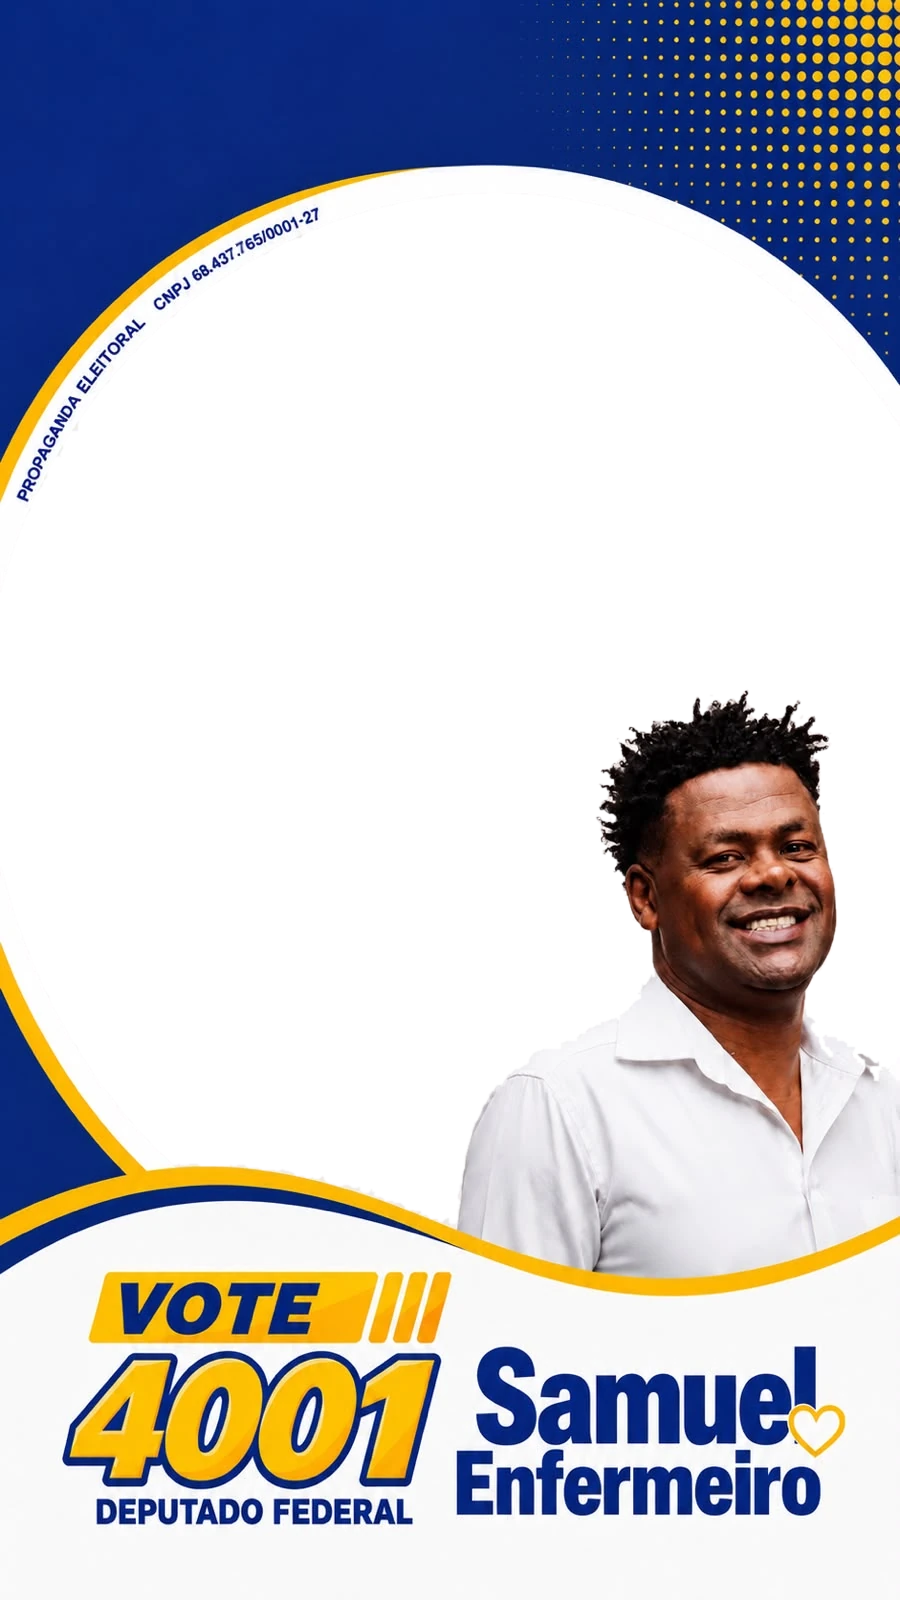
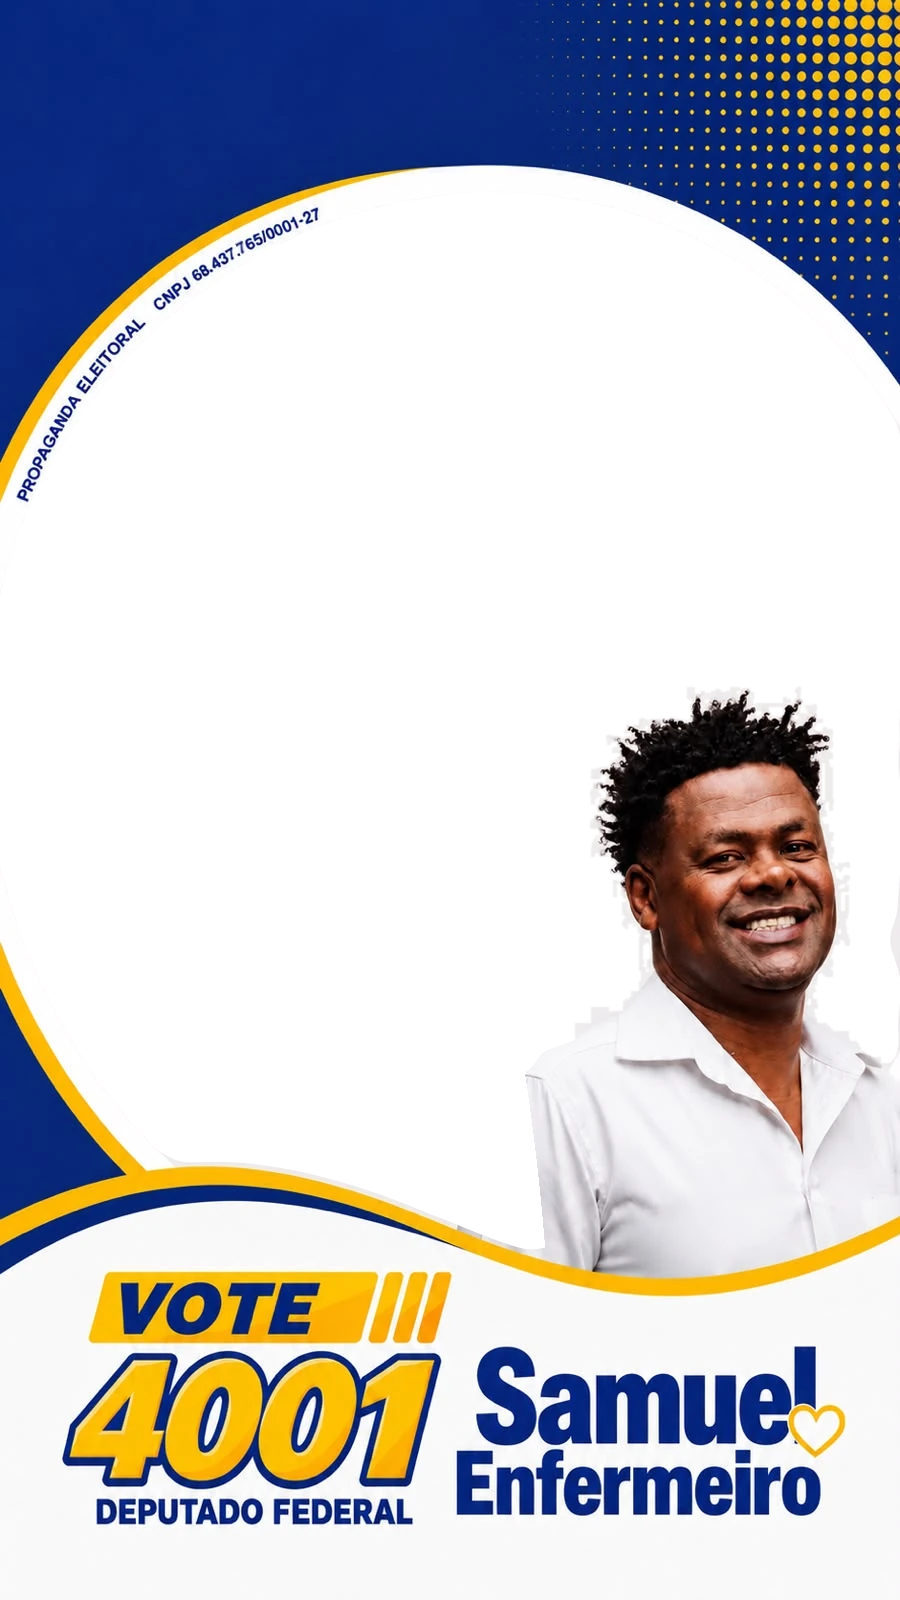
Borda do vazado tracada em vez de preenchida, nas duas molduras
O serrilhado que aparecia como "cortes" na foto vinha do preenchimento por
semente. As artes sao JPEG achatado e a borda do vazado nem sempre tem um
limite de cor: no alto e na esquerda existe um fio cinza claro, mas embaixo o
vazado e o faixao branco sao a mesma cor, e o preenchimento parava onde o
ruido do JPEG mandasse — deixando dentes de ate 10 px.

Agora a borda e tracada raio a raio a partir do centro do vazado: para no fio
quando ele existe, no arco amarelo ou no anel azul quando nao existe (com uma
folga fixa, que reproduz o contorno branco do desenho), e pula o candidato.
O perfil radial passa por mediana e media antes de virar mascara, o que deixa
a curva lisa; a silhueta do candidato e recortada de volta depois, entao o
alisamento nao mexe no contorno do cabelo dele.

Geometria remedida nas duas. Cobertura do vazado verificada em 5 proporcoes
de foto: 0 px descoberto no zoom minimo.

diff --git a/index.html b/index.html
@@ -236,11 +236,11 @@
     <span class="estilos-rotulo">Escolha o formato</span>
     <div class="estilos-opcoes">
       <button type="button" class="estilo ativo" data-moldura="0" role="radio" aria-checked="true">
[2 lines of base64/hex data omitted]
         <span>Foto de perfil<small>WhatsApp e Instagram</small></span>
       </button>
       <button type="button" class="estilo" data-moldura="1" role="radio" aria-checked="false">
[2 lines of base64/hex data omitted]
         <span>Story<small>Instagram e status</small></span>
       </button>
     </div>
@@ -333,10 +333,10 @@
   // de cima e e o que a pessoa baixa — o que ela ve e o que ela leva.
   var MOLDURAS = [
     { nome: "Foto de perfil", W: 1080, H: 1080,
-      cx: 533, cy: 397, rx: 472, ry: 329, focoX: 533,
+      cx: 509, cy: 394, rx: 448, ry: 327, focoX: 509,
       arquivo: "samuel-enfermeiro-perfil.png", src: "assets/molduras/perfil-1x1.webp" },
     { nome: "Story", W: 900, H: 1600,
-      cx: 450, cy: 708, rx: 450, ry: 516, focoX: 450,
+      cx: 450, cy: 720, rx: 450, ry: 528, focoX: 450,
       arquivo: "samuel-enfermeiro-story.png", src: "assets/molduras/story-azul.webp" }
   ];
   var selecionado = 0;
